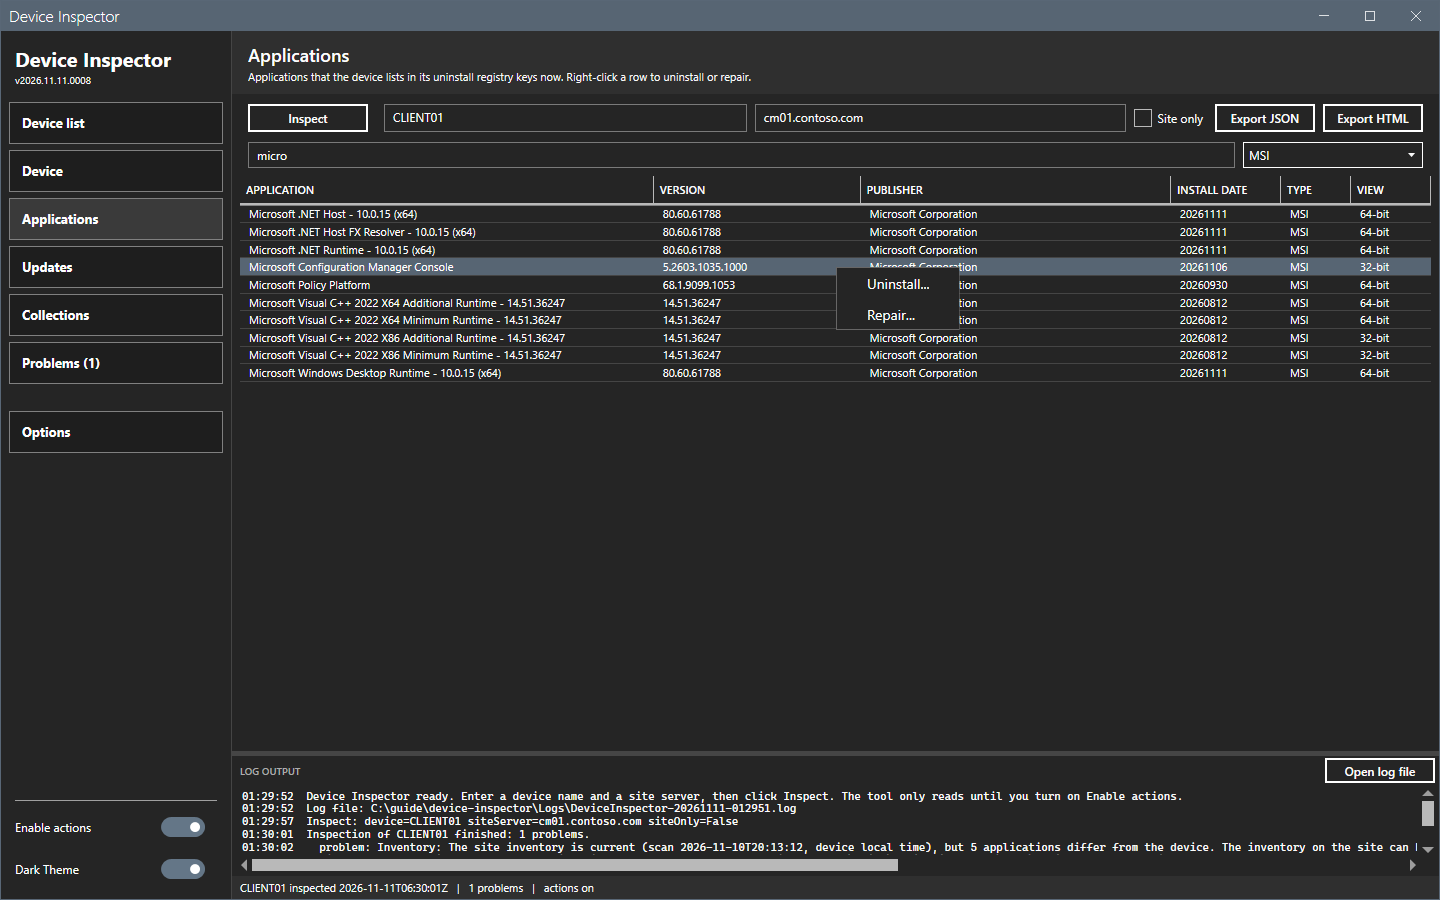
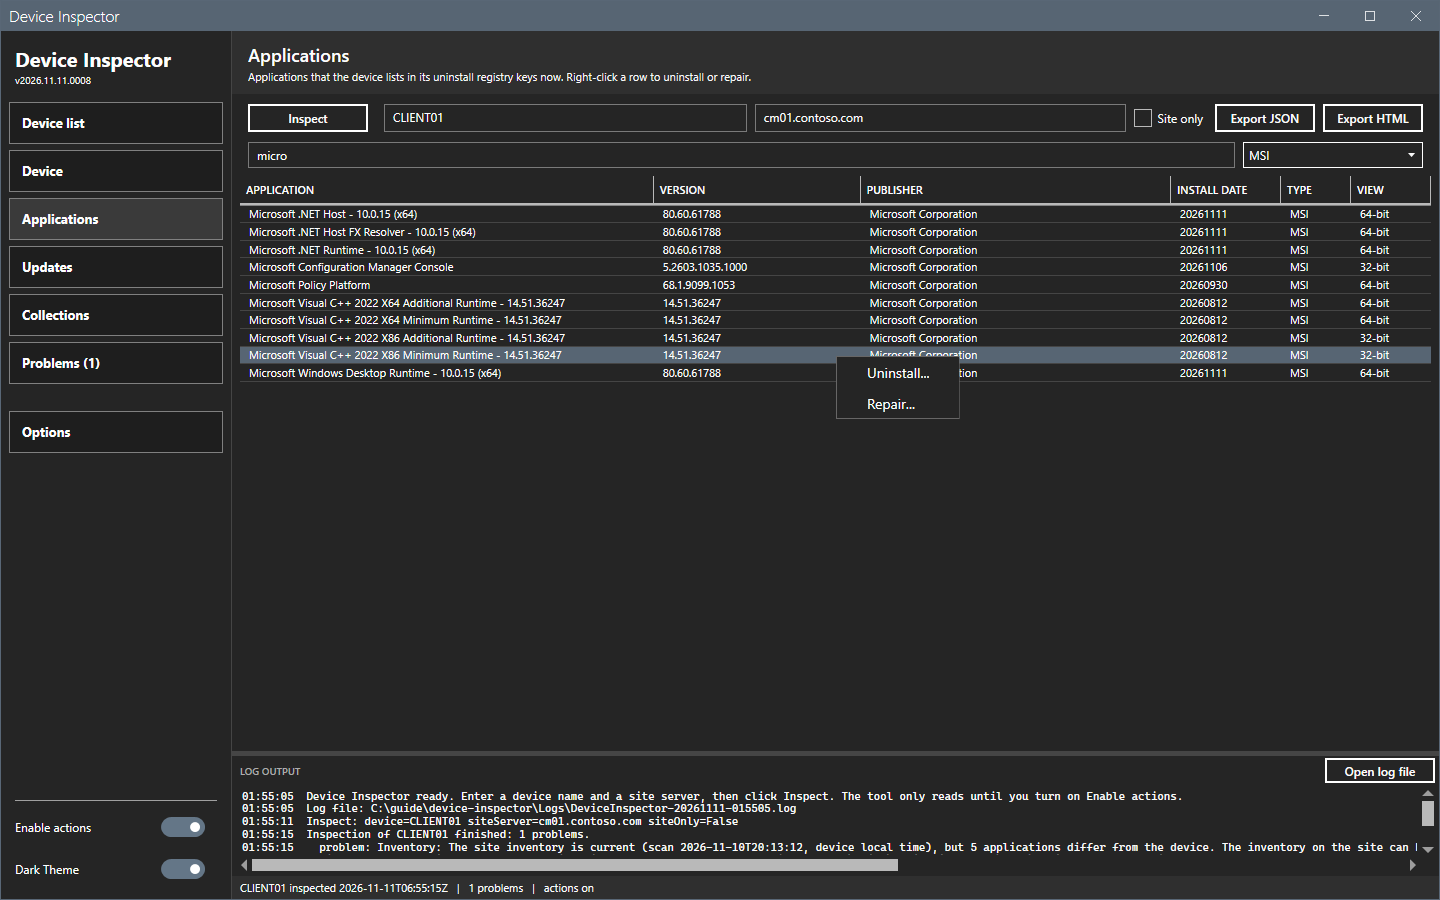
device-inspector: guide capture picks a named VC++ runtime row, never the console; find Not now by name; test Run recursion; changelog counts

diff --git a/CHANGELOG.md b/CHANGELOG.md
@@ -8,9 +8,10 @@ All notable changes to Device Inspector are documented in this file.
 
 ### Changed
 
-- Retake every image of the user guide from release 2026.11.11.0008. The Applications panel images show the live columns (type and view) and the All, MSI and EXE filter, the sidebar shows Device list, and the version in the sidebar is current.
+- Retake 33 images of the user guide from release 2026.11.11.0008. The Applications panel images show the live columns (type and view) and the All, MSI and EXE filter, the sidebar shows Device list, and the version in the sidebar is current.
 - Add images of the action buttons, the confirmation dialog, the running-actions list, the result window, the close warning, the right-click menus of the Applications, Updates and Collections panels, the uninstall confirmation, the collection browser and the Device list panel.
 - Add the steps of these images to `tools/guide-capture/steps-guide.ps1`. The steps choose Dry run or Cancel and never Run, and a test checks that. The capture scrolls the window log to its first lines before an image that would show the account of an action result.
+- Fix the capture harness: clear the site code for the device-only step, stop when an inspection read no applications (`Assert-Applications`), find the Not now button of a Windows restart prompt by its name (`Dismiss-RestartPrompt`), and select a named Microsoft Visual C++ runtime row for the uninstall images, with a guard that stops the capture on a Configuration Manager row.
 
 ## [2026.11.11.0008] - 2026-11-11
 
